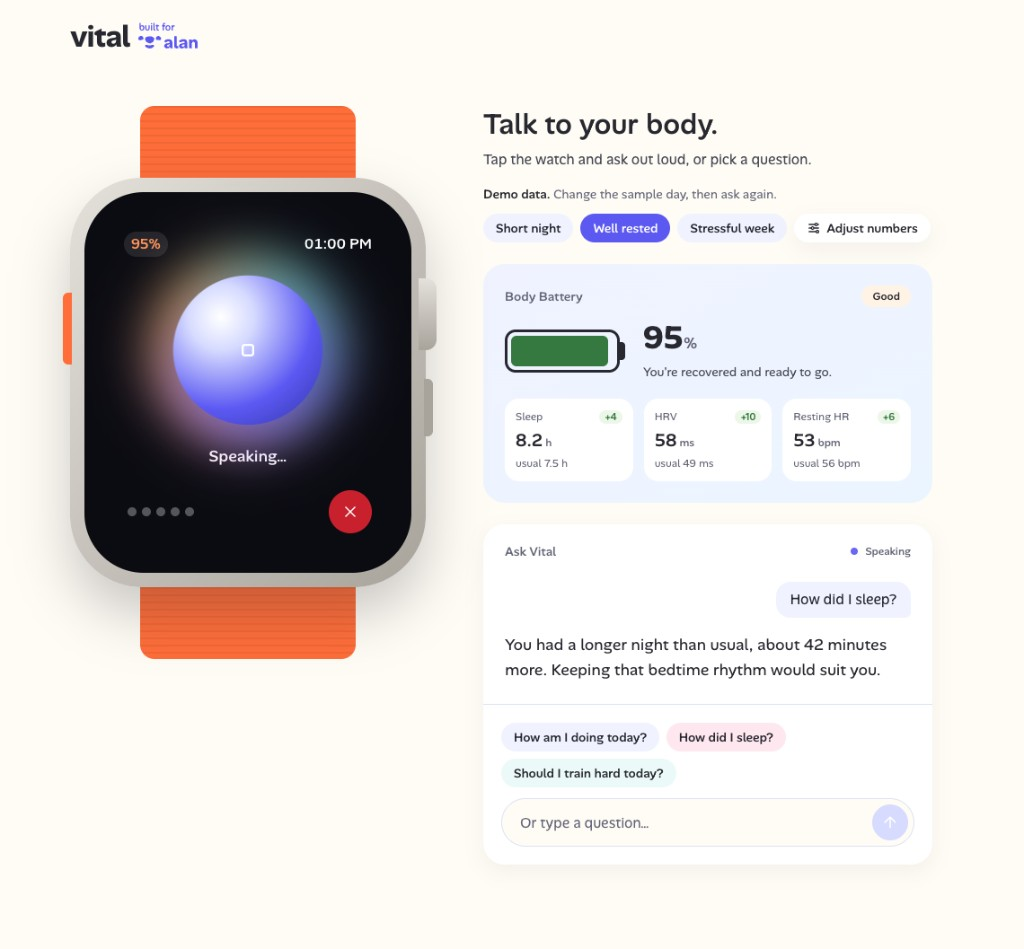
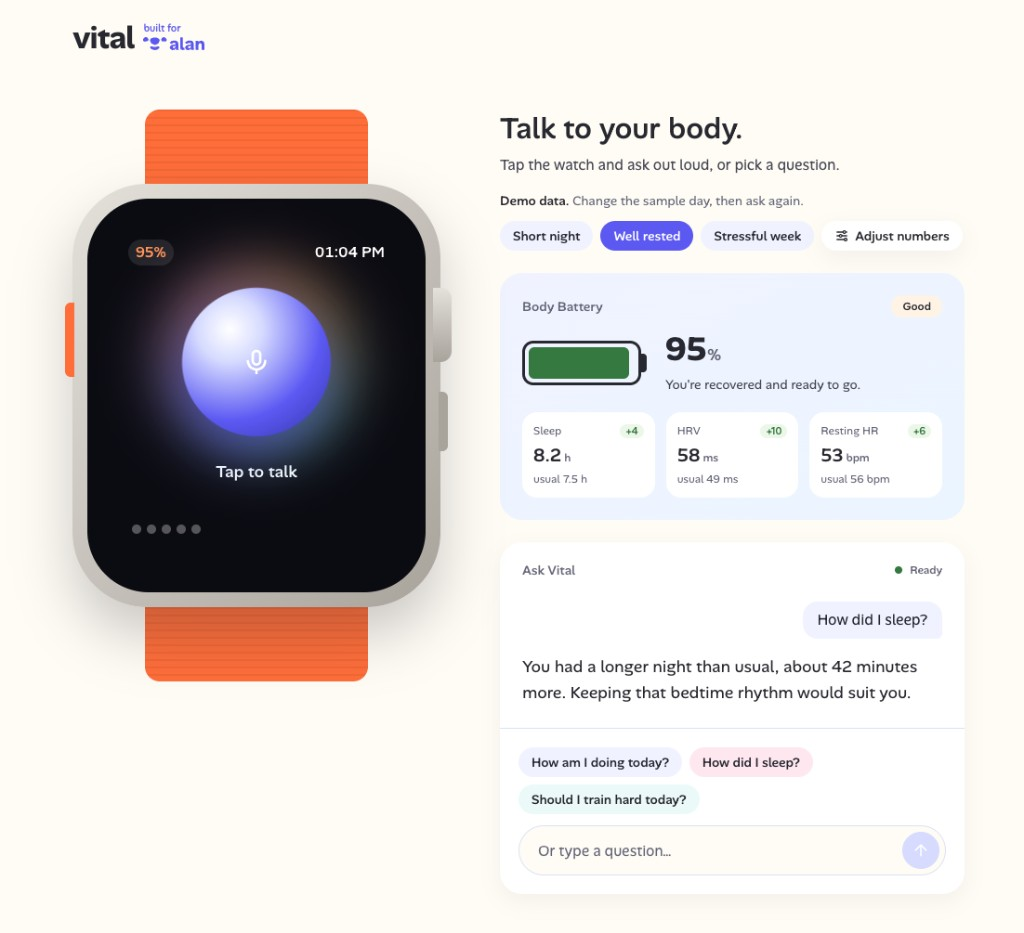
docs(repo): swap the README screenshot for the idle watch

diff --git a/README.md b/README.md
@@ -16,7 +16,7 @@
 </p>
 
 <p align="center">
-  <img src="public/mockups/demo-app.png" alt="Vital speaking: the watch and the answer on the right" width="100%">
+  <img src="public/mockups/demo-app.png" alt="Vital: tap the watch to talk, with the answer on the right" width="100%">
 </p>
 
 <p align="left">
